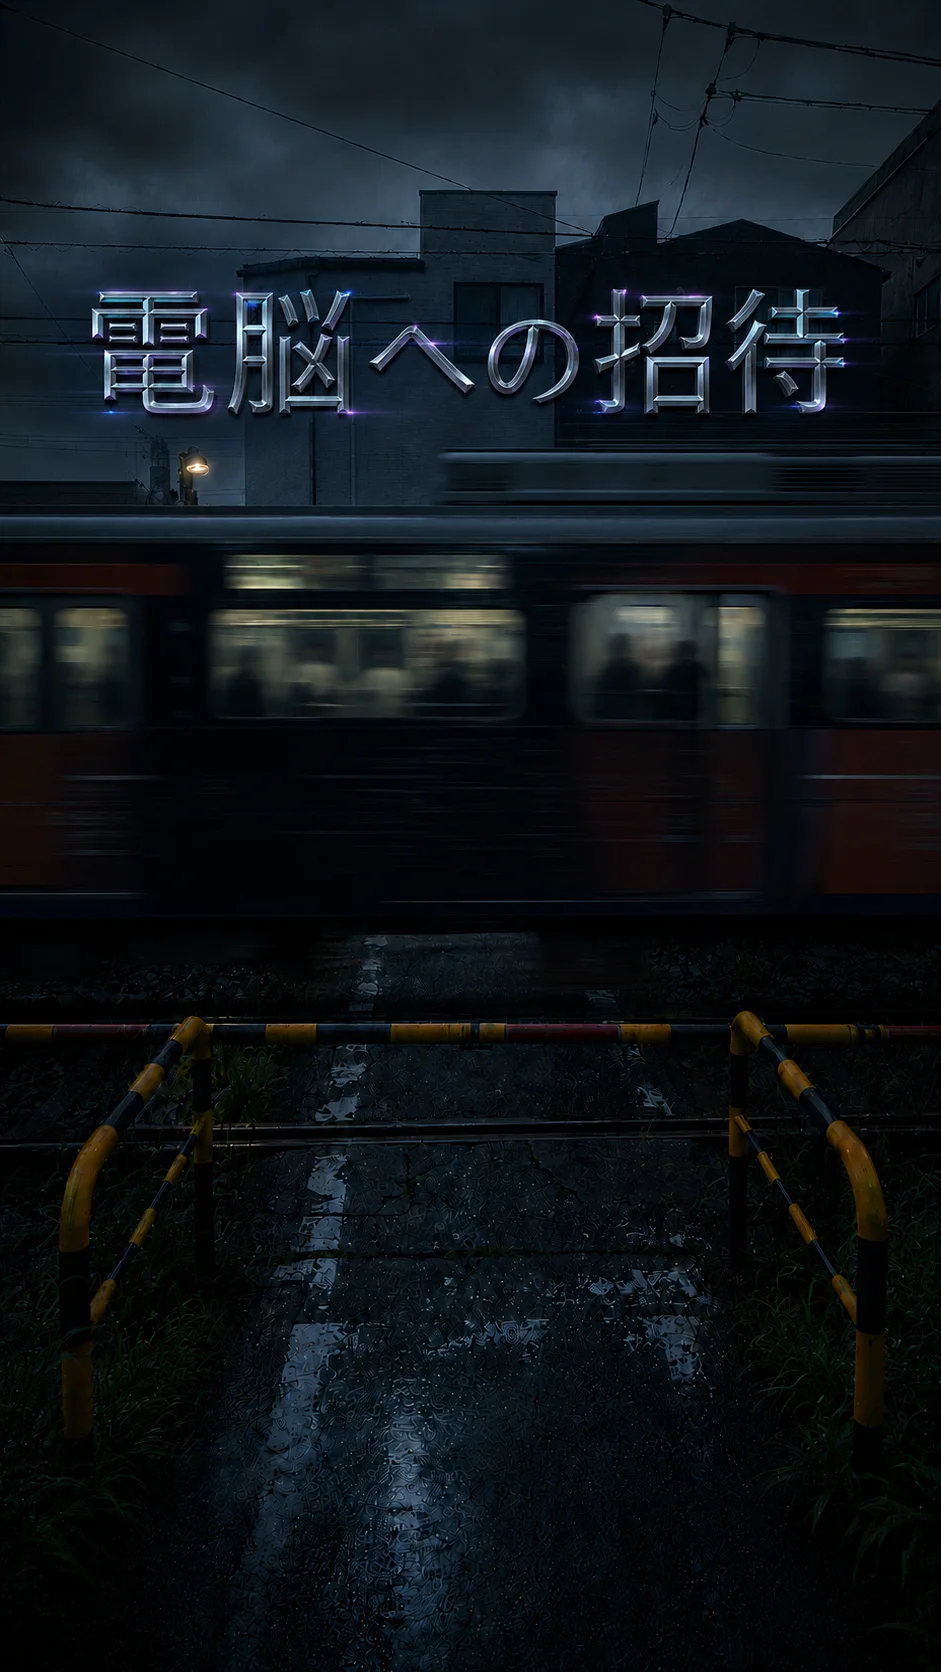
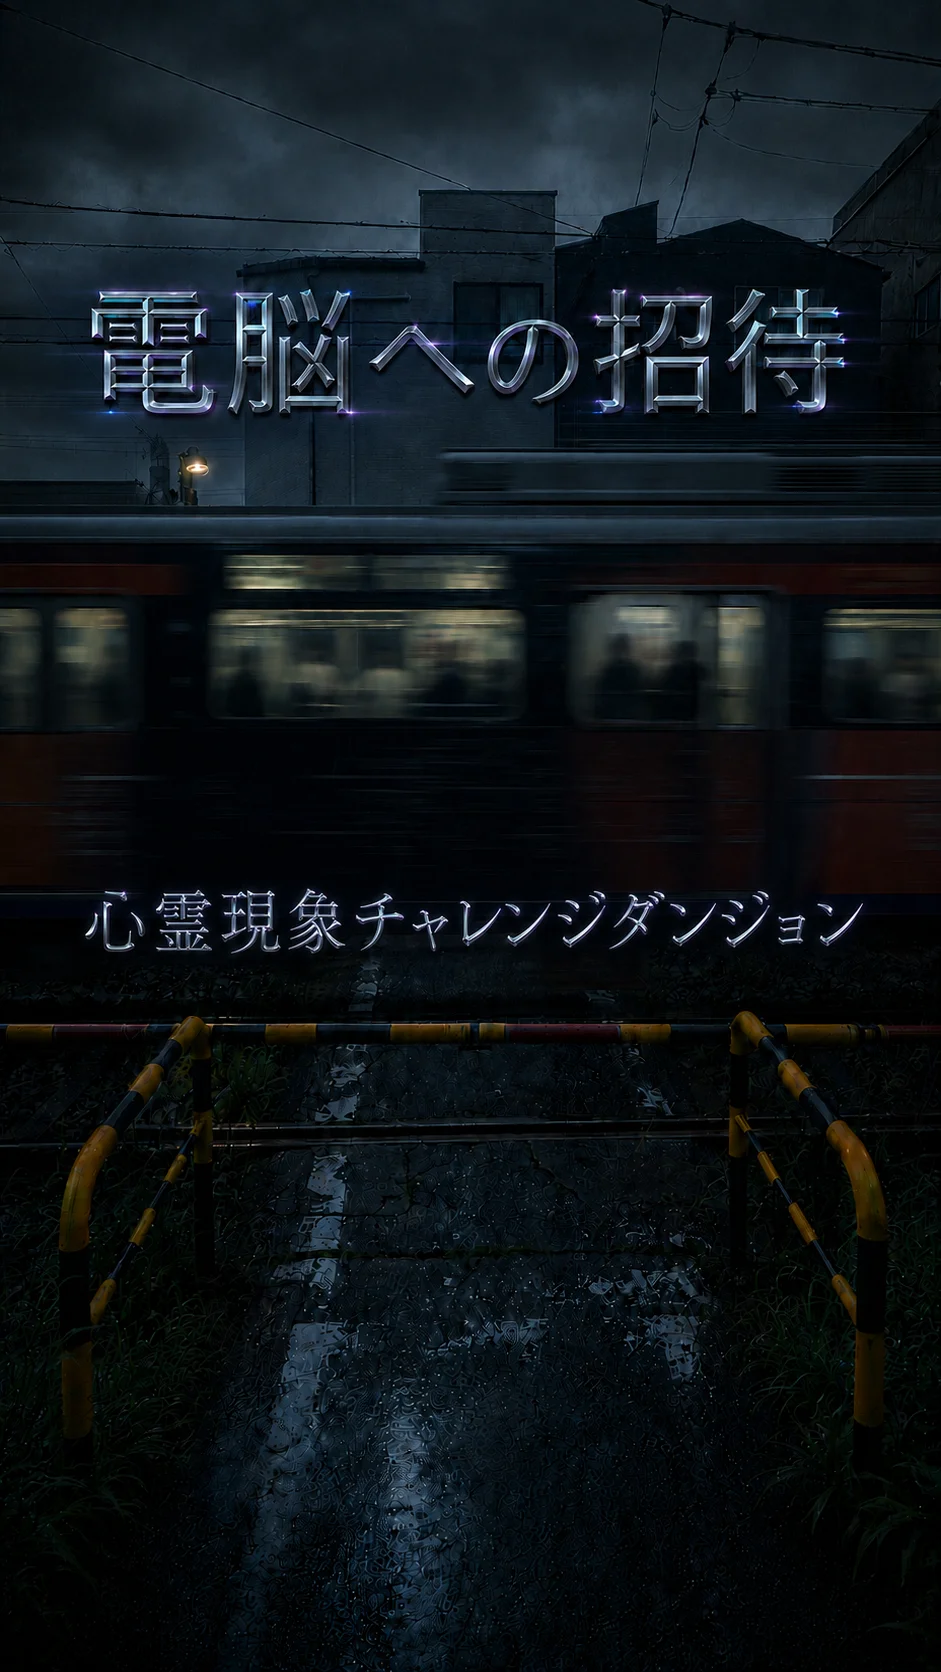
素材はそろった

diff --git a/conversation.md b/conversation.md
@@ -1,0 +1,91 @@
+# ゲームプレイの流れ
+
+## ゲーム全般
+- コマンドや会話は画面下詰め
+- 会話は"美容師："のように、話している人の名前のあとにコロンを付す。
+- イントロ以降エンディング画面に行くまで、音楽は"Train-Invitation to Cyberspace.wav"
+
+## オープニング画面
+
+### 画像
+"OP.webp"
+
+### 音楽
+"Opening-Invitation to Cyberspace.wav"
+
+### コマンド
+- 上から「髪を切ってくれてありがとうございます。」、「レザークラフトを始めてみる」
+
+
+
+## イントロ画面
+「髪を切らせてくれてありがとうございます。」を押下後スタート
+
+### 画面
+{### 会話}の流れに沿って変化
+- 会話1. では"Intro_ClosingCrossingGate.webp"
+- 会話2. から 会話4. までは"Intro_To_South.webp"
+- 会話5. からは"Intro_OpeningCrossingGate.webp"
+
+### 会話
+1. 私：！？
+2. 美容師：一昨日はありがとうございました。
+3. 私：ひっ！！
+4. 私：（お店出てからずっと後ろにいる・・・）
+5. 私：（カットだけで８千円もする美容室なのに、狂ってる・・・逃げなきゃ！）
+
+
+## メイン画面
+
+CPUの会話イベントは下記の流れのみである。
+1. 話しかけたとき（↑ボタンを押下）
+2. 4桁の数字の正解の言い方
+3. プレイヤー勝利時
+4. CPU勝利時
+
+また、メイン画面に入った最初の画面は"To_North.webp"
+
+### アメカジさん
+1. まゆみちゃん。自転車の鍵の番号なんだっけ？
+2. xxxxじゃなかった？
+3. 自転車の鍵開けておいたよ！
+4. 自転車借りていくね。
+
+"To_North.webp"
+
+### 美容師
+1. オレ美容師だけど、0000から9999の間でオレの好きな数字当ててみて。
+2. xxxxだよ。
+3. ２か月後に来てください。
+4. 逃がさねぇ！！
+
+"To_South.webp"
+
+### 野生動物
+1. １、３、５、７・・・綺麗な音。あなたの音は？
+2. xxxxの方が綺麗だよ。
+3. ふふふ。
+4. あなたも上に乗って。
+
+"To_East.webp"
+
+### 鉄道車両整備士たち
+1. おい！大丈夫か？西暦何年か答えてみろ！
+2. XXXX年だよ！
+3. 大丈夫か？
+4. 顔色が悪いぞ。
+
+To_West.webp
+
+
+## エンディング画面
+
+### 画像
+None
+
+### 音楽
+"DJ_Dupont.mp3"
+
+### 会話
+1. てほん：これローソンで使える500円クーポン券の番号○○○だけど。
+2. てほん：こんなげーむにまじになっちゃってどうするの 完

diff --git a/game_design_document.md b/game_design_document.md
@@ -13,8 +13,8 @@
 
 ```
 オープニング画面
-├─ 「髪を切ってくれてありがとうございます。」→ ナビゲーション画面（ゲーム開始）
-└─ 「ドコモに乗り換える」→ ドコモ公式サイト（外部リンク）
+├─ 「髪を切らせてくれてありがとうございます。」→ ナビゲーション画面（ゲーム開始）
+└─ 「レザークラフトを始めてみる」→ https://andleather.official.ec/categories/2110113（外部リンク）
 
 ナビゲーション画面
 └─ キャラクターに話しかける → 数当てゲーム → カードバトル
@@ -48,10 +48,10 @@
 
 |方向|キャラクター|
 |-|-|
-|北|キャラA|
-|南|キャラB|
-|東|キャラC|
-|西|キャラD|
+|北|アメカジさん（キャラA）|
+|南|美容師（キャラB）|
+|東|野生動物（キャラC）|
+|西|鉄道車両整備士たち（キャラD）|
 
 ※ キャラ名・見た目・セリフは各自設定すること
 
@@ -64,8 +64,7 @@
 1. キャラクターが「オレ美容師だけど、0000から9999の間で好きな数字教えて。」のような会話をする（セリフはキャラごとに異なる）
 2. プレイヤーが4桁の数字（0000〜9999）を入力する
 3. キャラごと毎回、内部でランダムな4桁の正解を生成しておく
-4. **不一致の場合**：「違うよ○○○○だよ。」（正解の数字を告げる。セリフはキャラごとに異なる）
-5. **完全一致の場合**：「正解。」（セリフはキャラごとに異なる）
+4. 「○○○○だよ。」（正解の数字を告げる。セリフはキャラごとに異なる）
 
 キャラクターごとにゲームを行う1回限りの入力であるため、後述の ###カードの配布 もその都度行われる。
 